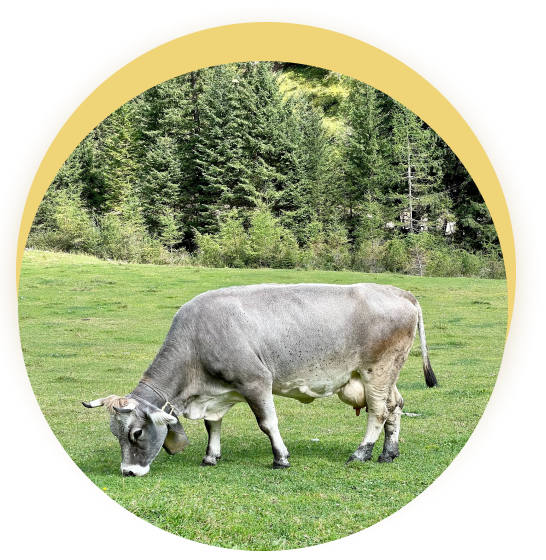
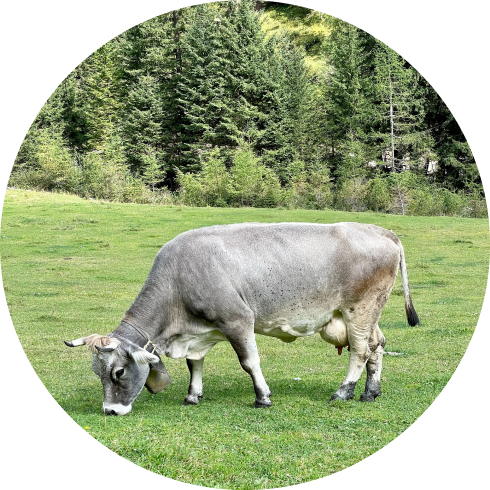
add img to about
Перезалив картинки для секції. Картинка абсолютно позіцонована.

diff --git a/src/partials/about.html b/src/partials/about.html
@@ -3,11 +3,15 @@
     <p class="about__label">tradition and love</p>
     <h2 class="about__title">how it’s made?</h2>
     <div class="about__wrap">
-      <div class="about__img">
-      <!--  <img srcset="./images/3-About/cow_sm@1x.png 1x,
-        ./images/3-About/cow_sm@2x.png 2x"
-        src="./images/3-About/cow_sm@1x.png" alt="Cow"> -->
-      </div>
+      <picture class="about__img">
+        <img 
+        class="about__cow" 
+        srcset="./images/3-About/cow_sm@1x.png 1x, ./images/3-About/cow_sm@2x.png 2x"
+        src="./images/3-About/cow_sm@1x.png" alt="Cow">
+        <source srcset="./images/3-About/cow_sm@1x.png 1x, ./images/3-About/cow_sm@2x.png 2x" media="(min-width: 320px)">
+        <source srcset="./images/3-About/cow_md@1x.png 1x, ./images/3-About/cow_md@2x.png 2x" media="(min-width: 768px)">
+        <source srcset="./images/3-About/cow_lg@1x.png 1x, ./images/3-About/cow_lg@2x.png 2x" media="(min-width: 1200px)">
+      </picture>
       <div class="about-desc">
         <p class="about-desc__text frst-txt">
           Ice is a place where you will become not only a little happier, but also healthier.

diff --git a/src/sass/layout/_about.scss b/src/sass/layout/_about.scss
@@ -64,6 +64,7 @@
     }
   }
   &__img {
+    position: relative;
     display: block;
     width: 280px;
     height: 280px;
@@ -82,6 +83,19 @@
       width: 490px;
       height: 490px;
     }
+  }
+  &__cow {
+    width: 100%;
+    position: absolute;
+    top: 20px;
+    left: 0%;
+    @media screen and (min-width: 768px) {
+        top: 25px;
+      }
+    
+      @media screen and (min-width: 1200px) {
+        top: 39px;
+      }
   }
 }
 .about-desc {
